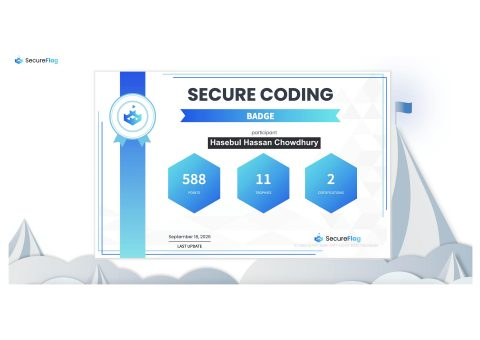
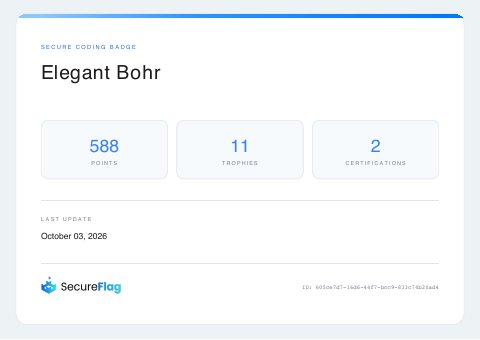
content: updated SecureFlag badge image (Oct 2026)

Changed region(s): [[0.0, 0.1176, 1.0, 0.8824], [0.0312, 0.0, 0.9688, 0.0588]]

diff --git a/achievements.html b/achievements.html
@@ -75,7 +75,7 @@
                 <article class="panel">
                     <header class="panel-head">
                         <h3>Secure Coding Badge</h3>
-                        <p class="panel-meta">SecureFlag &middot; last updated 18 September 2026</p>
+                        <p class="panel-meta">SecureFlag &middot; last updated 3 October 2026</p>
                     </header>
                     <div class="panel-main">
                         <p class="panel-links"><a class="pub-link" href="https://www.secureflag.com/b?605ce7d7-16d6-44f7-bcc9-833c74b20ad4" target="_blank" rel="noopener">View credential</a></p>
